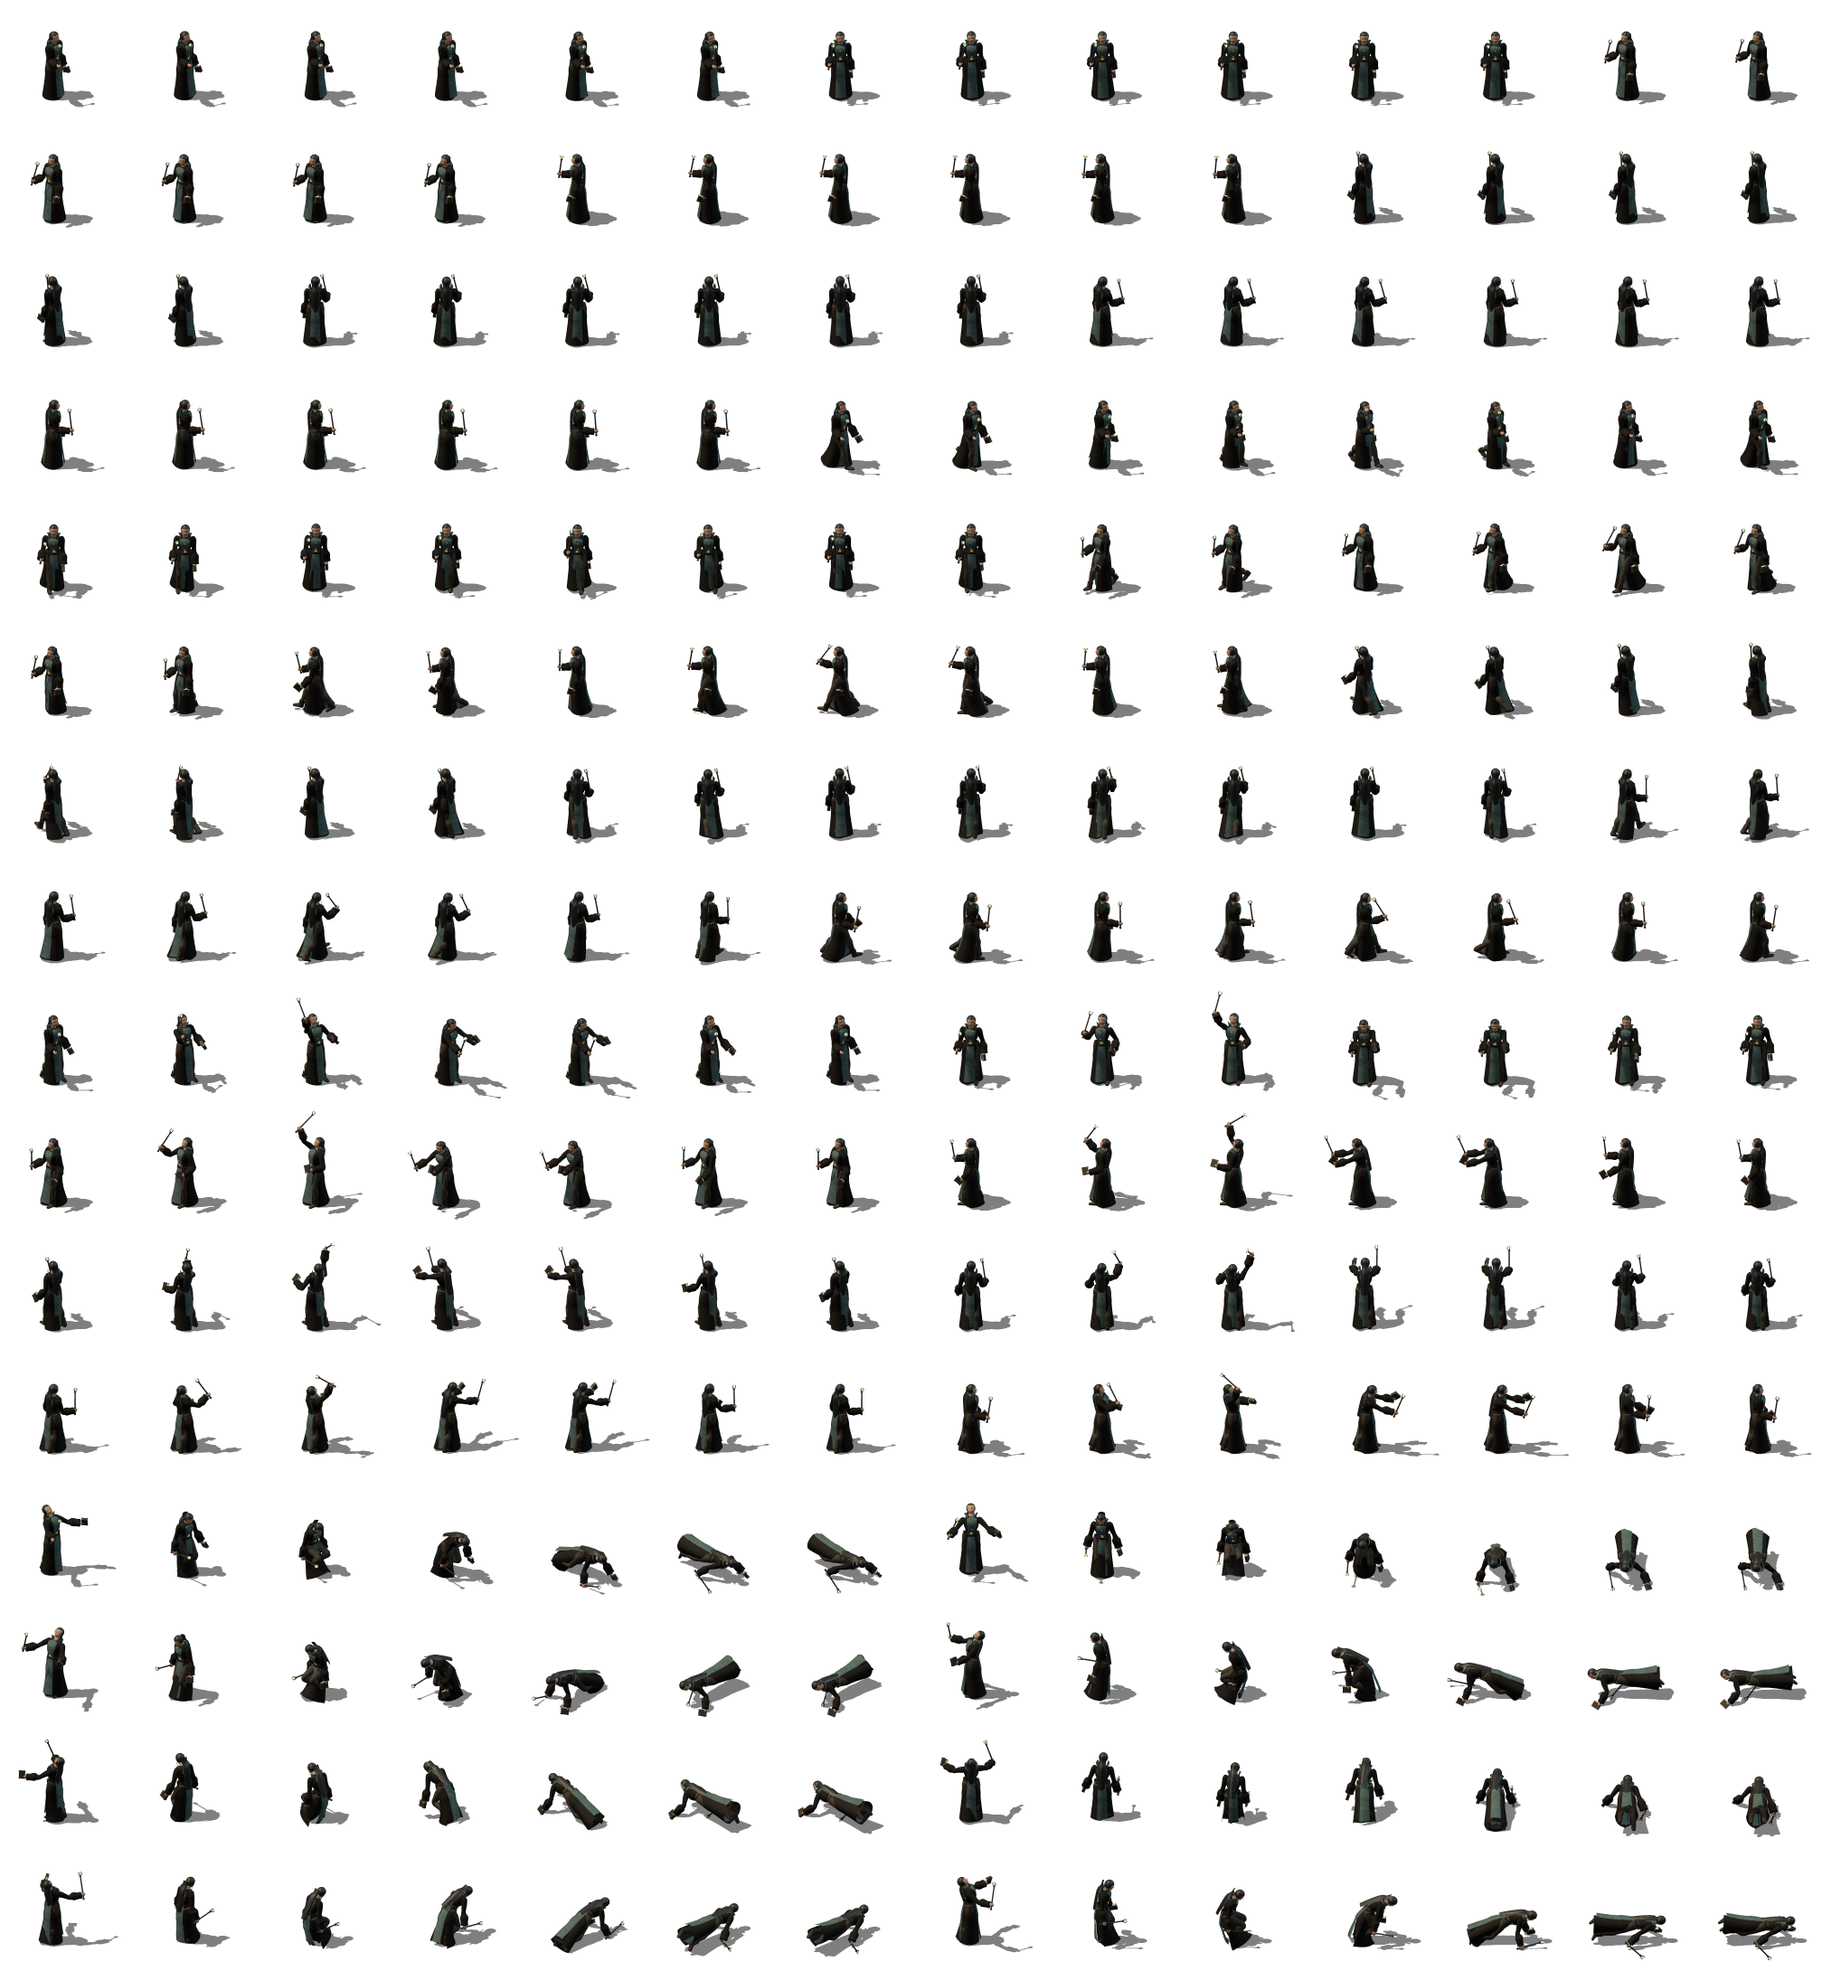
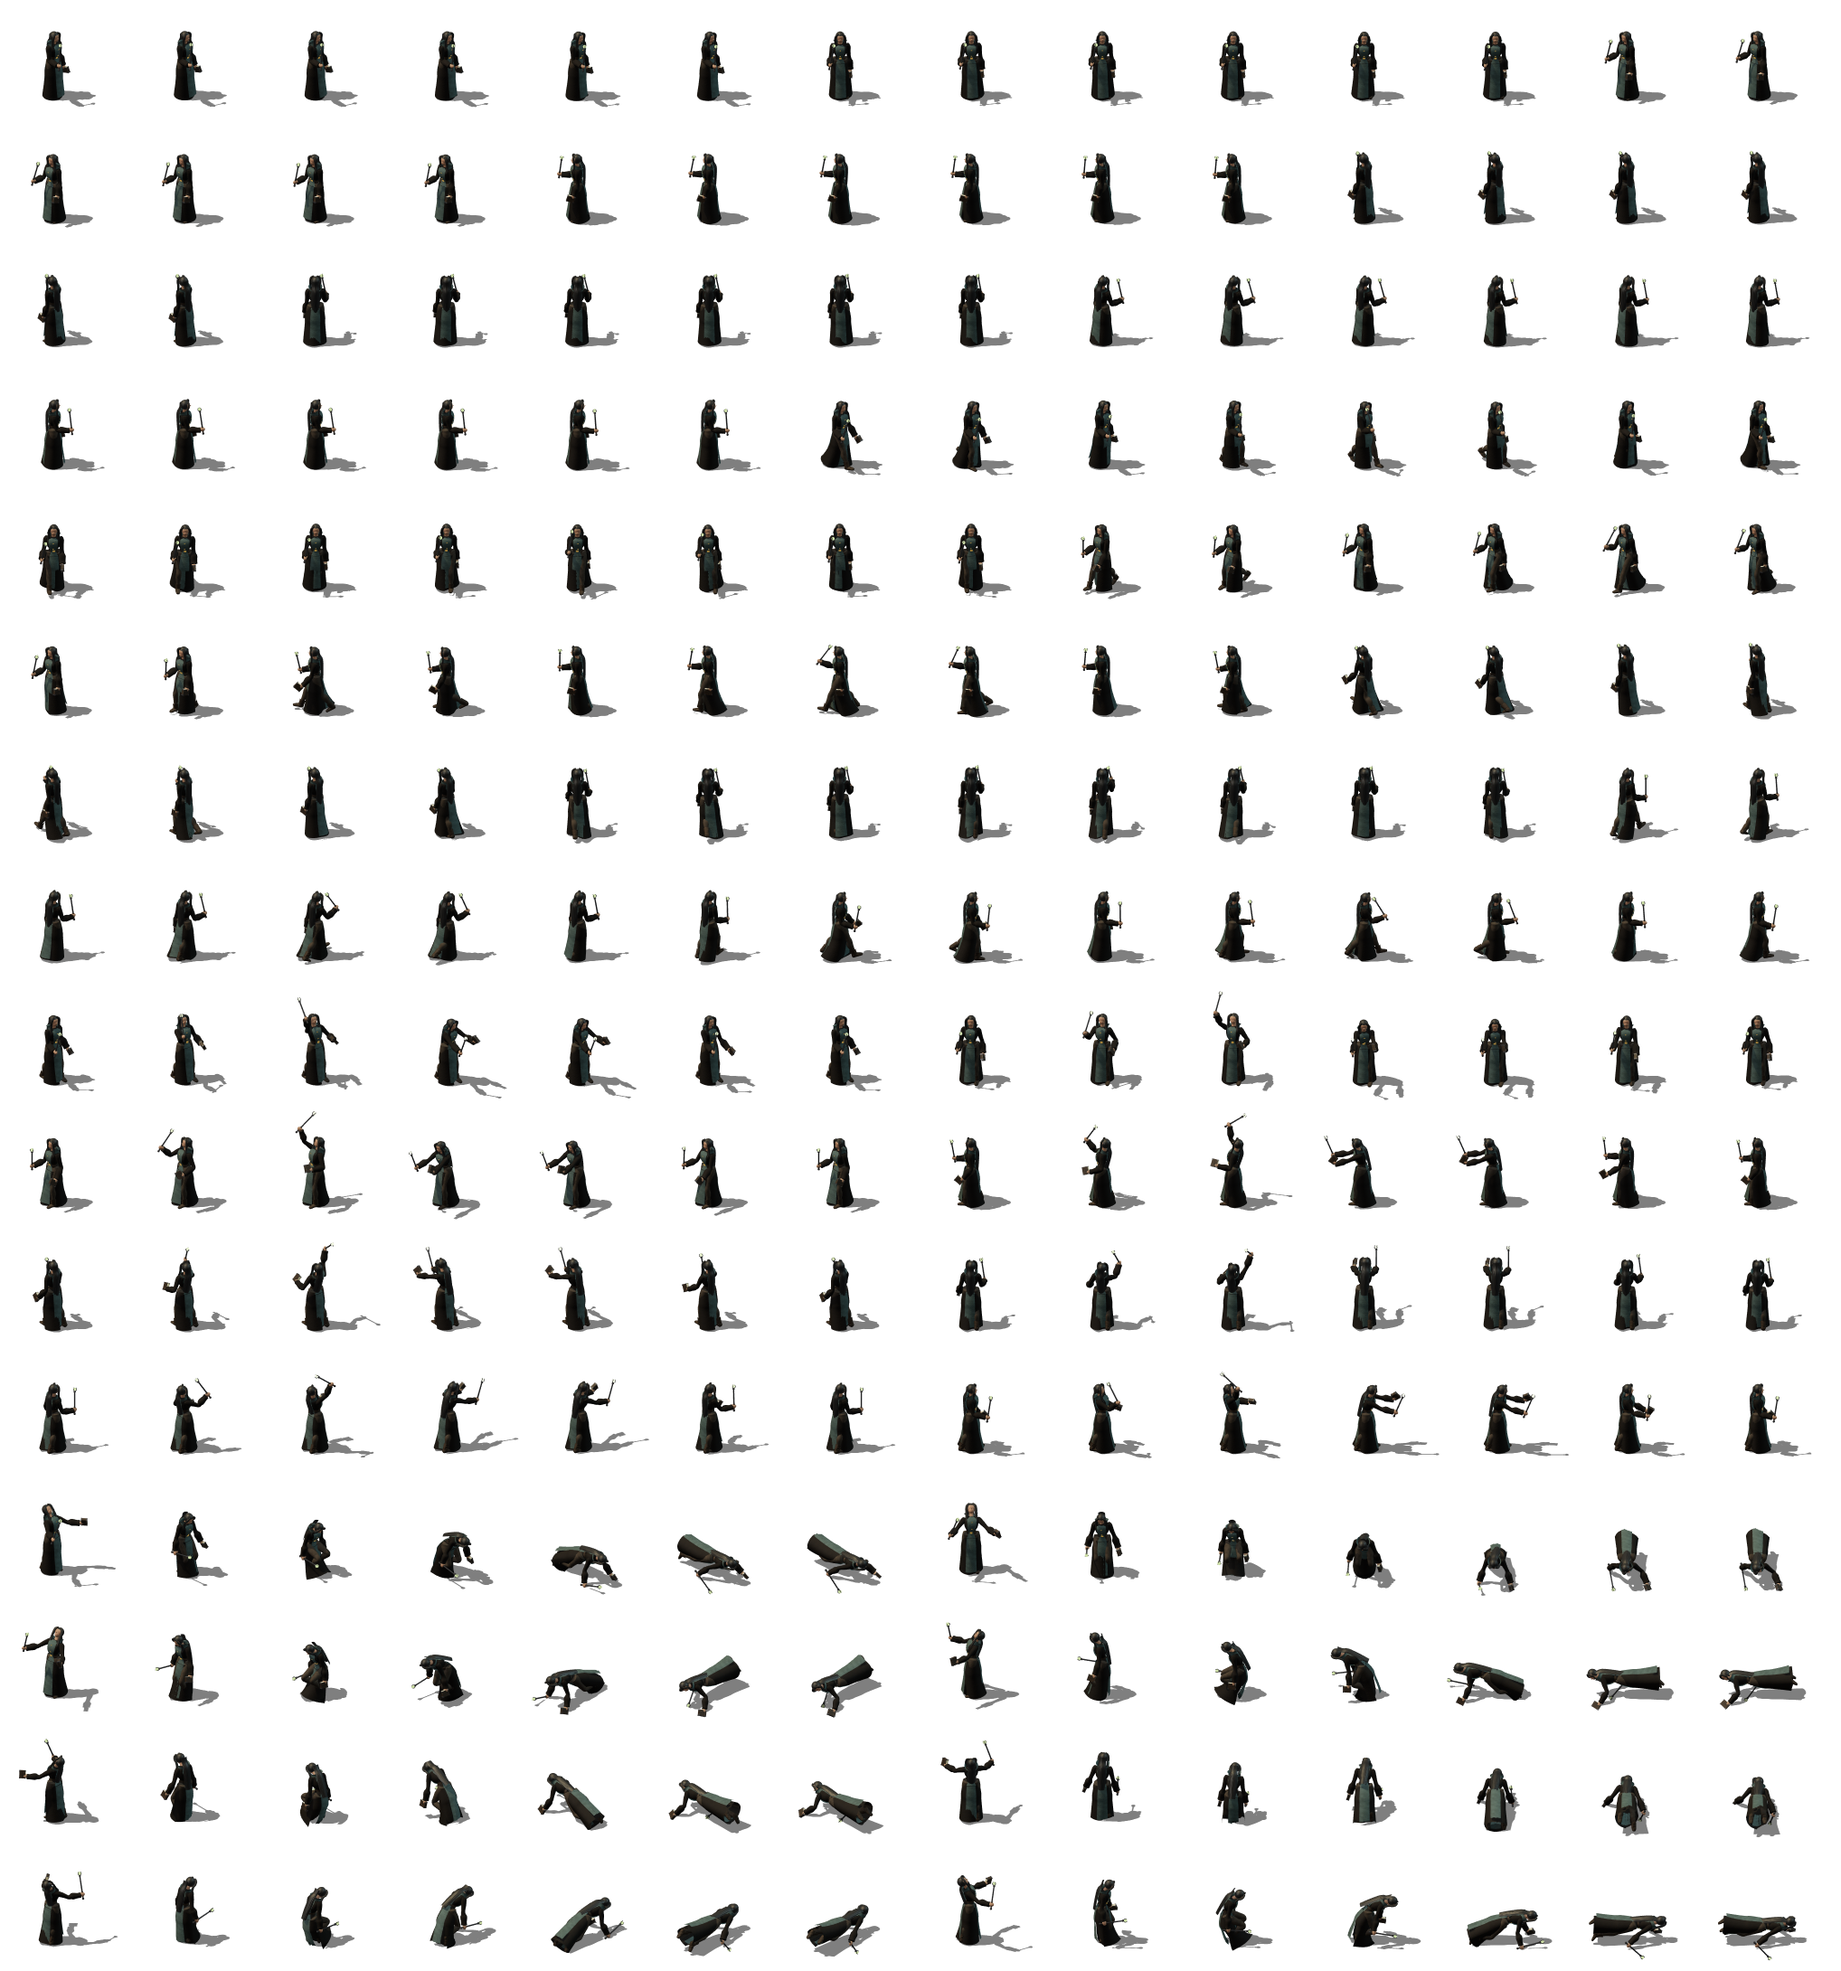
style(client): the mage gets two long locks framing her face and a waisted figure

Changed region(s): [[0.8664, 0.7798, 0.8973, 0.811], [0.3713, 0.8422, 0.4023, 0.8734]]

diff --git a/game-client/tools/bake/page/characters/cast.js b/game-client/tools/bake/page/characters/cast.js
@@ -23,6 +23,7 @@ import {
   cloakBones,
   coif,
   cowl,
+  faceLocks,
   hair,
   hairFall,
   hands,
@@ -193,7 +194,7 @@ export function archer() {
 export function wizard() {
   const M = materials();
   const F = fabrics();
-  const rig = createRig(1.92, { shoulderW: 0.87, torsoW: 0.88, torsoD: 0.92, hipW: 1.04, armR: 0.86, limbR: 0.88, headR: 0.059 });
+  const rig = createRig(1.92, { shoulderW: 0.8, torsoW: 0.82, torsoD: 0.88, hipW: 1.1, armR: 0.78, limbR: 0.84, headR: 0.059 });
   rig.hooks = [];
   skirtBones(rig, { stiffness: 38, drag: 0.28 });
   const [, hy] = J(rig, "hips");
@@ -205,26 +206,29 @@ export function wizard() {
     [-Math.PI / 2 - 0.5, -Math.PI / 2 + 0.5],
   ];
 
-  torso(rig, F.robe, { waist: 0.86 });
-  bust(rig, F.robe);
-  neck(rig, F.skin);
-  arms(rig, F.robe, { sleeve: (t) => 1 + 1.7 * THREE.MathUtils.smoothstep(t, 0.45, 1) });
+  // her figure is drawn at the waist: the gown is cut to it and the skirt only opens from the hip
+  const waist = 0.76;
+  torso(rig, F.robe, { waist, neckW: 0.85 });
+  neck(rig, F.skin, { w: 0.85 });
+  arms(rig, F.robe, { sleeve: (t) => 1 + 1.35 * THREE.MathUtils.smoothstep(t, 0.45, 1) });
   legs(rig, F.breeches);
   hands(rig, F.skin, { size: 0.9 });
   boots(rig, F.leatherDark, { top: 0.08 });
-  head(rig, F.skin);
+  head(rig, F.skin, { jaw: 0.88 });
   hair(rig, F.raven, { long: true });
   standingCollar(rig, F.scapular, { rise: 0.04, gap: 0.8 });
-  skirt(rig, F.robe, { top: hy + 0.05, bottom: 0.016, rTop: [0.09, 0.072], rBottom: [0.155, 0.138], legFollow: 0.5, panels: true, panelWeight: 0.35, segs: 32, trail: 0.02 });
+  skirt(rig, F.robe, { top: hy - 0.005, bottom: 0.016, rTop: [0.108, 0.08], rBottom: [0.155, 0.138], legFollow: 0.5, panels: true, panelWeight: 0.35, segs: 32, trail: 0.02 });
   for (const arc of panels) {
-    overTorso(rig, F.scapular, { from: hy - 0.01, arc, pad: 0.012 });
-    skirt(rig, F.scapular, { top: hy + 0.02, bottom: 0.05, rTop: [0.096, 0.08], rBottom: [0.16, 0.146], arc, panels: true, legFollow: 0.3, segs: 16 });
+    overTorso(rig, F.scapular, { from: hy - 0.01, arc, pad: 0.012, waist });
+    skirt(rig, F.scapular, { top: hy - 0.005, bottom: 0.05, rTop: [0.116, 0.086], rBottom: [0.16, 0.146], arc, panels: true, legFollow: 0.3, segs: 16 });
   }
+  bust(rig, F.scapular);
   hairFall(rig, F.raven, { length: 0.3, width: 0.07, depth: 0.098, arc: 0.85 });
+  faceLocks(rig, F.raven);
   // the scapular's clasps
   for (let i = 0; i < 3; i++)
     attach(rig, "chest", new THREE.BoxGeometry(0.018 * rig.H, 0.008 * rig.H, 0.008 * rig.H), M.brass, [0, cy + 0.07 - i * 0.045, 0.086 * td + 0.012 - i * 0.004]);
-  belt(rig, F.leatherDark, M.brass, { r: [0.094, 0.08], dy: 0.07, pouch: true });
+  belt(rig, F.leatherDark, M.brass, { r: [0.056, 0.064], dy: 0.07, pouch: true });
   const orbMat = M.arcane.clone();
   const base = orbMat.emissiveIntensity;
   inHand(rig, "R").add(sceptre(rig, M, F, orbMat));

diff --git a/game-client/tools/bake/page/characters/anatomy.js b/game-client/tools/bake/page/characters/anatomy.js
@@ -40,7 +40,7 @@ export function bust(rig, mat, k = 1) {
   const [, cy] = J(rig, "chest");
   const td = rig.p.torsoD;
   for (const [, sx] of sides)
-    attach(rig, "chest", ellipsoid(0.038 * k * H, 0.034 * k * H, 0.03 * k * H, 12), mat, [sx * 0.037, cy + 0.028, 0.062 * td], { rz: sx * 0.15 });
+    attach(rig, "chest", ellipsoid(0.03 * k * H, 0.03 * k * H, 0.028 * k * H, 12), mat, [sx * 0.028, cy + 0.03, 0.062 * td], { rz: sx * 0.15 });
 }
 
 /**
@@ -200,7 +200,8 @@ export function head(rig, mat, o = {}) {
   const r = rig.p.headR;
   const H = rig.H;
   attach(rig, "head", ellipsoid(r * 0.92 * H, r * 1.02 * H, r * 1.0 * H, 20), mat, [0, hy + 0.058, hz - 0.002]);
-  attach(rig, "head", ellipsoid(r * 0.72 * H, r * 0.72 * H, r * 0.78 * H, 16), mat, [0, hy + 0.028, hz + 0.016]);
+  const jaw = o.jaw ?? 1;
+  attach(rig, "head", ellipsoid(r * 0.72 * jaw * H, r * 0.72 * H, r * 0.78 * H, 16), mat, [0, hy + 0.028, hz + 0.016]);
   if (o.nose !== false) {
     const nose = new THREE.ConeGeometry(0.009 * H, 0.024 * H, 6);
     attach(rig, "head", nose, mat, [0, hy + 0.046, hz + 0.066], { rx: 1.35 });
@@ -651,6 +652,29 @@ export function hairFall(rig, mat, { length = 0.22, width = 0.075, depth = 0.09,
     { segs: 20, steps: 4, caps: false, arc: [-Math.PI / 2 - arc, -Math.PI / 2 + arc] },
   );
   return attach(rig, "chest", geo, mat, [0, 0, 0]);
+}
+
+/**
+ * Two long locks from the parting down either side of the face, resting on the front of the
+ * shoulders. Skinned from head to chest, so a turn of the head bends them instead of parting them.
+ */
+export function faceLocks(rig, mat, { width = 0.017, depth = 0.012 } = {}) {
+  const [, ny] = J(rig, "neck");
+  const [, hy, hz] = J(rig, "head");
+  for (const [, sx] of sides)
+    skinTube(
+      rig,
+      [
+        { p: [sx * 0.022, hy + 0.114, hz + 0.028], r: [width * 0.7, depth], w: { head: 1 } },
+        { p: [sx * 0.05, hy + 0.088, hz + 0.04], r: [width * 0.95, depth], w: { head: 1 } },
+        { p: [sx * 0.06, hy + 0.05, hz + 0.036], r: [width, depth], w: { head: 1 } },
+        { p: [sx * 0.06, hy + 0.01, hz + 0.03], r: [width, depth], w: { head: 0.6, chest: 0.4 } },
+        { p: [sx * 0.062, ny - 0.005, 0.042], r: [width * 0.95, depth * 0.9], w: { head: 0.15, chest: 0.85 } },
+        { p: [sx * 0.066, ny - 0.052, 0.062], r: [width * 0.45, depth * 0.45], w: { chest: 1 } },
+      ],
+      mat,
+      { segs: 10, steps: 4, ground: false, uv: 4 },
+    );
 }
 
 /** A soft felt cap with a short brim, worn over the crown. */

diff --git a/game-client/docs/design-guideline.md b/game-client/docs/design-guideline.md
@@ -265,13 +265,15 @@ lit) while the player stands inside.
   ragged cloak hangs over the buff leather, with a quiver on the back. *(Amended at the owner's
   pick, 2026-11-04.)*
 - **Mage:** a woman by default, a raven-haired occultist: grim and scholarly, never glamour and
-  never a pointed hat. She is narrower in the shoulder than the men, her waist drawn in by a
-  belt. Her black hair is drawn back from a centre parting and falls straight down her back over
-  a low standing collar, with a cold sheen so it parts from the gown behind it. She wears a black
+  never a pointed hat. She is narrower in the shoulder than the men, her gown cut in at a belted
+  waist and opening from the hip, so she reads as a woman from the front. Her black hair falls
+  from a centre parting in two long locks down either side of her face to the shoulders, and
+  straight down her back over a low standing collar, with a cold sheen so it parts from the gown
+  behind it. She wears a black
   gown with long trailing sleeves under a scapular in necrotic teal, clasped in brass down the
   chest. A short iron sceptre holds the glowing stone in its prongs, and a black tome hangs from
   her other hand. No hood, no hat, no staff: her long hair and collar keep her apart from the
-  archer's cowl and the mercenary's tied-back hair and blade. *(Amended at the owner's pick, 2026-11-04.)*
+  archer's cowl and the mercenary's tied-back hair and blade. *(Amended at the owner's pick, 2026-11-04 and 2026-11-05.)*
 - **Mercenary:** a lightly armoured, skilled swordsman built on strength. He is a fighter in the
   open, never a rogue or an assassin. He wears a quilted arming coat in faded madder, skirted to
   mid-thigh, with a madder sash, one blackened spaulder, a vambrace on the sword arm and tall
